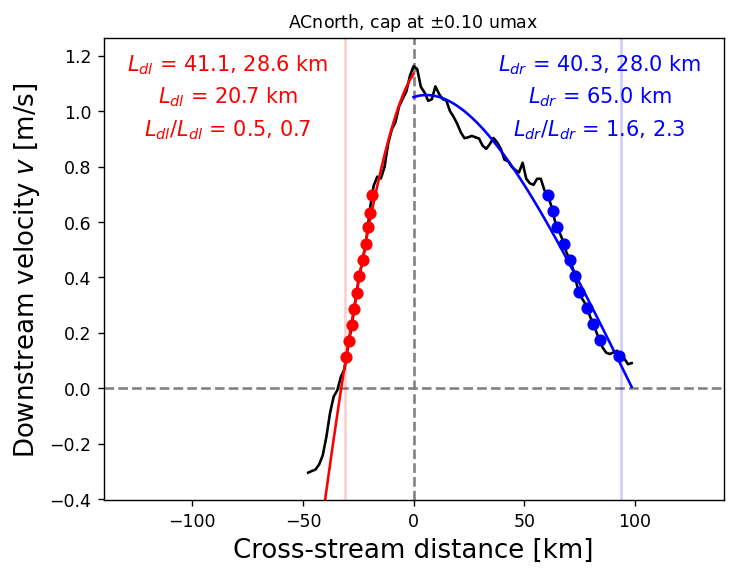
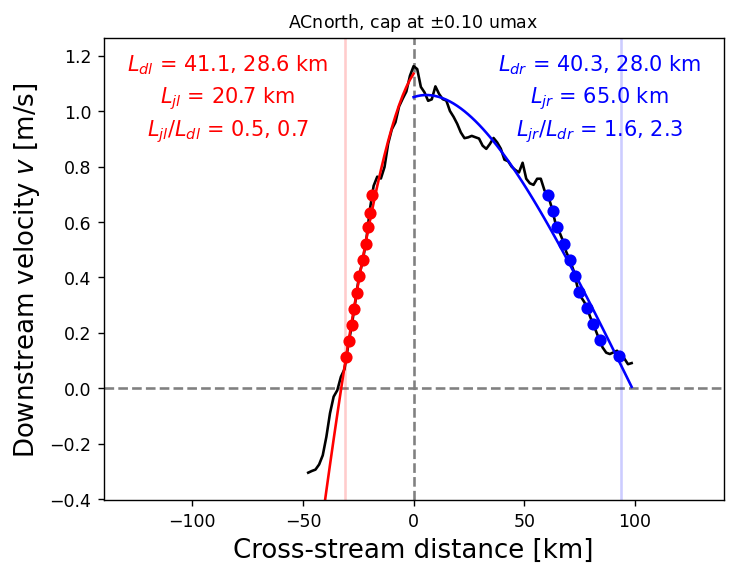
Compare max(u) and max(speed) for ACC jets and minor cleanup

diff --git a/proc/stream_avg_LMG_ACCjets.py b/proc/stream_avg_LMG_ACCjets.py
@@ -155,6 +155,7 @@ def get_trkang(lon1, lon2, lat1, lat2):
 #---
 plt.close("all")
 
+FCORE_UEAST = True
 SPLIT_INOUT = True
 ROTATE_UV_USING_ADT = True
 
@@ -478,10 +479,16 @@ for f in fnames:
             uSAF, vSAF = u[fSAF, :], v[fSAF, :]
 
             try:
-                fcore = np.nanargmax(np.nanmean(uSAF[:, :ntopbins_avg], axis=1))
-                loncoreSAF, latcoreSAF = lonSAF[fcore], latSAF[fcore] # Position of located jet core o plot on map with climatological fronts.
+                if FCORE_UEAST:
+                    uSAFfc = np.nanmean(uSAF[:, :ntopbins_avg], axis=1)
+                    errmsg = "Error finding maximum zonal velocity core for SAF. Skipping."
+                else:
+                    uSAFfc = np.sqrt(np.nanmean(uSAF[:, :ntopbins_avg], axis=1)**2 + np.nanmean(vSAF[:, :ntopbins_avg], axis=1)**2)
+                    errmsg = "Error finding maximum speed core for SAF. Skipping."
+                fcore = np.nanargmax(uSAFfc)
+                loncoreSAF, latcoreSAF = lonSAF[fcore], latSAF[fcore] # Position of located jet core to plot on map with climatological fronts.
             except ValueError:
-                print("Error finding maximum zonal velocity core for SAF. Skipping.")
+                print(errmsg)
                 continue
 
             xSAF = xSAF0 - xSAF0[fcore]
@@ -499,10 +506,16 @@ for f in fnames:
             uPF, vPF = u[fPF, :], v[fPF, :]
 
             try:
-                fcore = np.nanargmax(np.nanmean(uPF[:, :ntopbins_avg], axis=1))
-                loncorePF, latcorePF = lonPF[fcore], latPF[fcore] # Position of located jet core o plot on map with climatological fronts.
+                if FCORE_UEAST:
+                    uPFfc = np.nanmean(uPF[:, :ntopbins_avg], axis=1)
+                    errmsg = "Error finding maximum zonal velocity core for PF. Skipping."
+                else:
+                    uPFfc = np.sqrt(np.nanmean(uPF[:, :ntopbins_avg], axis=1)**2 + np.nanmean(vPF[:, :ntopbins_avg], axis=1)**2)
+                    errmsg = "Error finding maximum speed core for PF. Skipping."
+                fcore = np.nanargmax(uPFfc)
+                loncorePF, latcorePF = lonPF[fcore], latPF[fcore] # Position of located jet core to plot on map with climatological fronts.
             except ValueError:
-                print("Error finding maximum zonal velocity core for PF. Skipping.")
+                print(errmsg)
                 continue
 
             xPF = xPF0 - xPF0[fcore]
@@ -520,10 +533,16 @@ for f in fnames:
             uSACCF, vSACCF = u[fSACCF, :], v[fSACCF, :]
 
             try:
-                fcore = np.nanargmax(np.nanmean(uSACCF[:, :ntopbins_avg], axis=1))
-                loncoreSACCF, latcoreSACCF = lonSACCF[fcore], latSACCF[fcore] # Position of located jet core o plot on map with climatological fronts.
+                if FCORE_UEAST:
+                    uSACCFfc = np.nanmean(uSACCF[:, :ntopbins_avg], axis=1)
+                    errmsg = "Error finding maximum zonal velocity core for SACCF. Skipping."
+                else:
+                    uSACCFfc = np.sqrt(np.nanmean(uSACCF[:, :ntopbins_avg], axis=1)**2 + np.nanmean(vSACCF[:, :ntopbins_avg], axis=1)**2)
+                    errmsg = "Error finding maximum speed core for SACCF. Skipping."
+                fcore = np.nanargmax(uSACCFfc)
+                loncoreSACCF, latcoreSACCF = lonSACCF[fcore], latSACCF[fcore] # Position of located jet core to plot on map with climatological fronts.
             except ValueError:
-                print("Error finding maximum zonal velocity core for SACCF. Skipping.")
+                print(errmsg)
                 continue
 
             xSACCF = xSACCF0 - xSACCF0[fcore]
@@ -1060,9 +1079,19 @@ if ROTATE_UV_USING_ADT:
     dvars_PF.update(dict(angdiff=Angdiff_PF))
     dvars_SACCF.update(dict(angdiff=Angdiff_SACCF))
 
+headout = "../data/derived/"
+if FCORE_UEAST:
+    foutSAF = headout + "ustream_SAFjet_LMG.nc"
+    foutPF = headout + "ustream_PFjet_LMG.nc"
+    foutSACCF = headout + "ustream_SACCFjet_LMG.nc"
+else:
+    foutSAF = headout + "ustream_SAFjet_LMG_fcmaxspd.nc"
+    foutPF = headout + "ustream_PFjet_LMG_fcmaxspd.nc"
+    foutSACCF = headout + "ustream_SACCFjet_LMG_fcmaxspd.nc"
+
 dsSAF = Dataset(data_vars=dvars_SAF).sortby("t")
-dsSAF.to_netcdf("../data/derived/ustream_SAFjet_LMG.nc")
+dsSAF.to_netcdf(foutSAF)
 dsPF = Dataset(data_vars=dvars_PF).sortby("t")
-dsPF.to_netcdf("../data/derived/ustream_PFjet_LMG.nc")
+dsPF.to_netcdf(foutPF)
 dsSACCF = Dataset(data_vars=dvars_SACCF).sortby("t")
-dsSACCF.to_netcdf("../data/derived/ustream_SACCFjet_LMG.nc")
+dsSACCF.to_netcdf(foutSACCF)

diff --git a/proc/cmp_ACCjets_maxu_maxspd.py b/proc/cmp_ACCjets_maxu_maxspd.py
@@ -1,0 +1,75 @@
+import numpy as np
+import matplotlib.pyplot as plt
+from xarray import open_dataset
+
+#---
+plt.close("all")
+
+suffix = "_fcmaxspd"
+head = "../data/derived/"
+maxangdiff = 45
+
+dsSAF = open_dataset(head + "ustream_SAFjet_LMG.nc")
+dsSAF_spd = open_dataset(head + "ustream_SAFjet_LMG%s.nc"%suffix)
+dsPF = open_dataset(head + "ustream_PFjet_LMG.nc")
+dsPF_spd = open_dataset(head + "ustream_PFjet_LMG%s.nc"%suffix)
+dsSACCF = open_dataset(head + "ustream_SACCFjet_LMG.nc")
+dsSACCF_spd = open_dataset(head + "ustream_SACCFjet_LMG%s.nc"%suffix)
+
+usSAF = dsSAF.where(np.abs(dsSAF["angdiff"])<maxangdiff)["us"]
+usSAF_spd = dsSAF_spd.where(np.abs(dsSAF_spd["angdiff"])<maxangdiff)["us"]
+usPF = dsPF.where(np.abs(dsPF["angdiff"])<maxangdiff)["us"]
+usPF_spd = dsPF_spd.where(np.abs(dsPF_spd["angdiff"])<maxangdiff)["us"]
+usSACCF = dsSACCF.where(np.abs(dsSACCF["angdiff"])<maxangdiff)["us"]
+usSACCF_spd = dsSACCF_spd.where(np.abs(dsSACCF_spd["angdiff"])<maxangdiff)["us"]
+
+usSAF_SE = usSAF.std("t")/np.sqrt(np.isfinite(usSAF.values).sum(axis=0))
+usSAF_spd_SE = usSAF_spd.std("t")/np.sqrt(np.isfinite(usSAF_spd.values).sum(axis=0))
+usPF_SE = usPF.std("t")/np.sqrt(np.isfinite(usPF.values).sum(axis=0))
+usPF_spd_SE = usPF_spd.std("t")/np.sqrt(np.isfinite(usPF_spd.values).sum(axis=0))
+usSACCF_SE = usSACCF.std("t")/np.sqrt(np.isfinite(usSACCF.values).sum(axis=0))
+usSACCF_spd_SE = usSACCF_spd.std("t")/np.sqrt(np.isfinite(usSACCF_spd.values).sum(axis=0))
+
+usSAF = usSAF.mean("t")
+usSAF_spd = usSAF_spd.mean("t")
+usPF = usPF.mean("t")
+usPF_spd = usPF_spd.mean("t")
+usSACCF = usSACCF.mean("t")
+usSACCF_spd = usSACCF_spd.mean("t")
+
+usSAF_CL95l, usSAF_CL95u = usSAF - 2*usSAF_SE, usSAF + 2*usSAF_SE
+usSAF_spd_CL95l, usSAF_spd_CL95u = usSAF_spd - 2*usSAF_spd_SE, usSAF_spd + 2*usSAF_spd_SE
+usPF_CL95l, usPF_CL95u = usPF - 2*usPF_SE, usPF + 2*usPF_SE
+usPF_spd_CL95l, usPF_spd_CL95u = usPF_spd - 2*usPF_spd_SE, usPF_spd + 2*usPF_spd_SE
+usSACCF_CL95l, usSACCF_CL95u = usSACCF - 2*usSACCF_SE, usSACCF + 2*usSACCF_SE
+usSACCF_spd_CL95l, usSACCF_spd_CL95u = usSACCF_spd - 2*usSACCF_spd_SE, usSACCF_spd + 2*usSACCF_spd_SE
+
+xs = dsSAF["x"].values
+xmin, xmax = xs[0], xs[-1]
+ymin, ymax = -0.1, 0.8
+
+fig, ax = plt.subplots(figsize=(10, 8))
+
+ax.fill_between(xs, usSAF_CL95l, usSAF_CL95u, color="r", alpha=0.1)
+ax.fill_between(xs, usSAF_spd_CL95l, usSAF_spd_CL95u, color="r", alpha=0.1)
+ax.fill_between(xs, usPF_CL95l, usPF_CL95u, color="y", alpha=0.1)
+ax.fill_between(xs, usPF_spd_CL95l, usPF_spd_CL95u, color="y", alpha=0.1)
+ax.fill_between(xs, usSACCF_CL95l, usSACCF_CL95u, color="b", alpha=0.1)
+ax.fill_between(xs, usSACCF_spd_CL95l, usSACCF_spd_CL95u, color="b", alpha=0.1)
+
+usSAF_spd.plot(c="r", ls="dashed", label="SAF, max($\sqrt{u^2 + v^2}$)")
+usSAF.plot(c="r", ls="solid", label="SAF, max($u$)")
+usPF_spd.plot(c="y", ls="dashed", label="PF, max($\sqrt{u^2 + v^2}$)")
+usPF.plot(c="y", ls="solid", label="PF, max($u$)")
+usSACCF_spd.plot(c="b", ls="dashed", label="SACCF, max($\sqrt{u^2 + v^2}$)")
+usSACCF.plot(c="b", ls="solid", label="SACCF, max($u$)")
+ax.set_xlim(xmin, xmax)
+ax.set_ylim(ymin, ymax)
+ax.axhline(color="gray")
+ax.axvline(color="gray")
+ax.set_xlabel("Cross-stream distance, $x$ [km]", fontsize=15, fontweight="black")
+ax.set_ylabel("Downstream velocity, $v$ [m/s]", fontsize=15, fontweight="black")
+ax.legend(ncol=1)
+fig.savefig("ACCjets/cmp_ACCjets_maxu_maxspd.png", bbox_inches="tight")
+
+plt.show(block=False)

diff --git a/proc/convert_jetprofiles.py b/proc/convert_jetprofiles.py
@@ -446,10 +446,10 @@ for name in names:
     ufracpl = 0.5
     Ljltxt, Ljrtxt = -Ljlfs[ufracpl], Ljrfs[ufracpl]
 
-    ax.text(0.2, 0.68+dyt, "$L_{dl}$ = %.1f km"%Ljltxt, fontsize=12, transform=ax.transAxes, ha="center", color="r")
-    ax.text(0.8, 0.68+dyt, "$L_{dr}$ = %.1f km"%Ljrtxt, fontsize=12, transform=ax.transAxes, ha="center", color="b")
-    ax.text(0.2, 0.61+dyt, "$L_{dl}/L_{dl}$ = %.1f, %.1f"%(Ljltxt/Ldl_surf, Ljltxt/Ldl_flat), fontsize=12, transform=ax.transAxes, ha="center", color="r")
-    ax.text(0.8, 0.61+dyt, "$L_{dr}/L_{dr}$ = %.1f, %.1f"%(Ljrtxt/Ldr_surf, Ljrtxt/Ldr_flat), fontsize=12, transform=ax.transAxes, ha="center", color="b")
+    ax.text(0.2, 0.68+dyt, "$L_{jl}$ = %.1f km"%Ljltxt, fontsize=12, transform=ax.transAxes, ha="center", color="r")
+    ax.text(0.8, 0.68+dyt, "$L_{jr}$ = %.1f km"%Ljrtxt, fontsize=12, transform=ax.transAxes, ha="center", color="b")
+    ax.text(0.2, 0.61+dyt, "$L_{jl}/L_{dl}$ = %.1f, %.1f"%(Ljltxt/Ldl_surf, Ljltxt/Ldl_flat), fontsize=12, transform=ax.transAxes, ha="center", color="r")
+    ax.text(0.8, 0.61+dyt, "$L_{jr}/L_{dr}$ = %.1f, %.1f"%(Ljrtxt/Ldr_surf, Ljrtxt/Ldr_flat), fontsize=12, transform=ax.transAxes, ha="center", color="b")
     ax.set_xlabel("Cross-stream distance [km]", fontsize=15)
     ax.set_ylabel("Downstream velocity $v$ [m/s]", fontsize=15)
     ax.set_title("%s, cap at $\pm$%1.2f umax"%(name, umaxfrac), fontsize=10)
